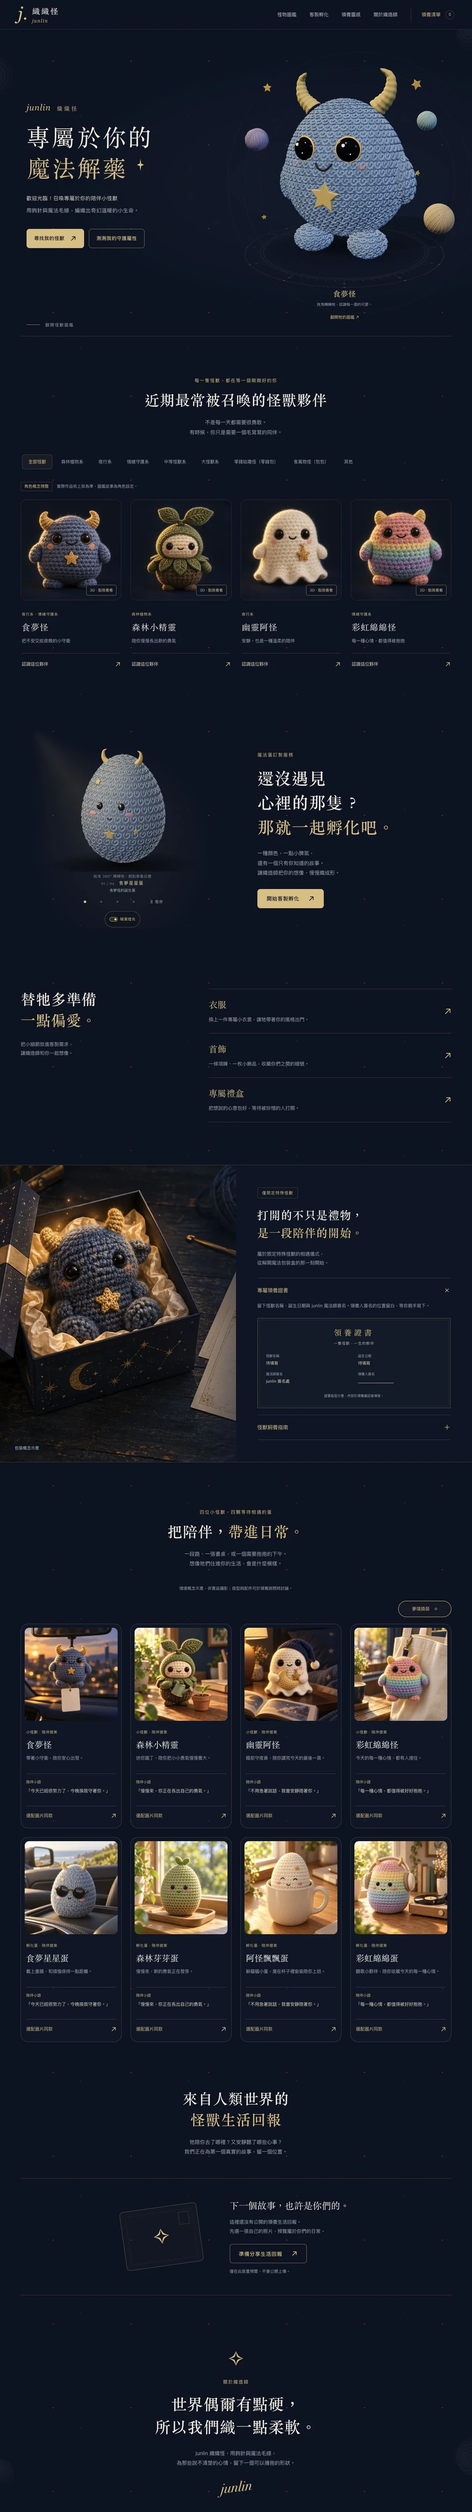
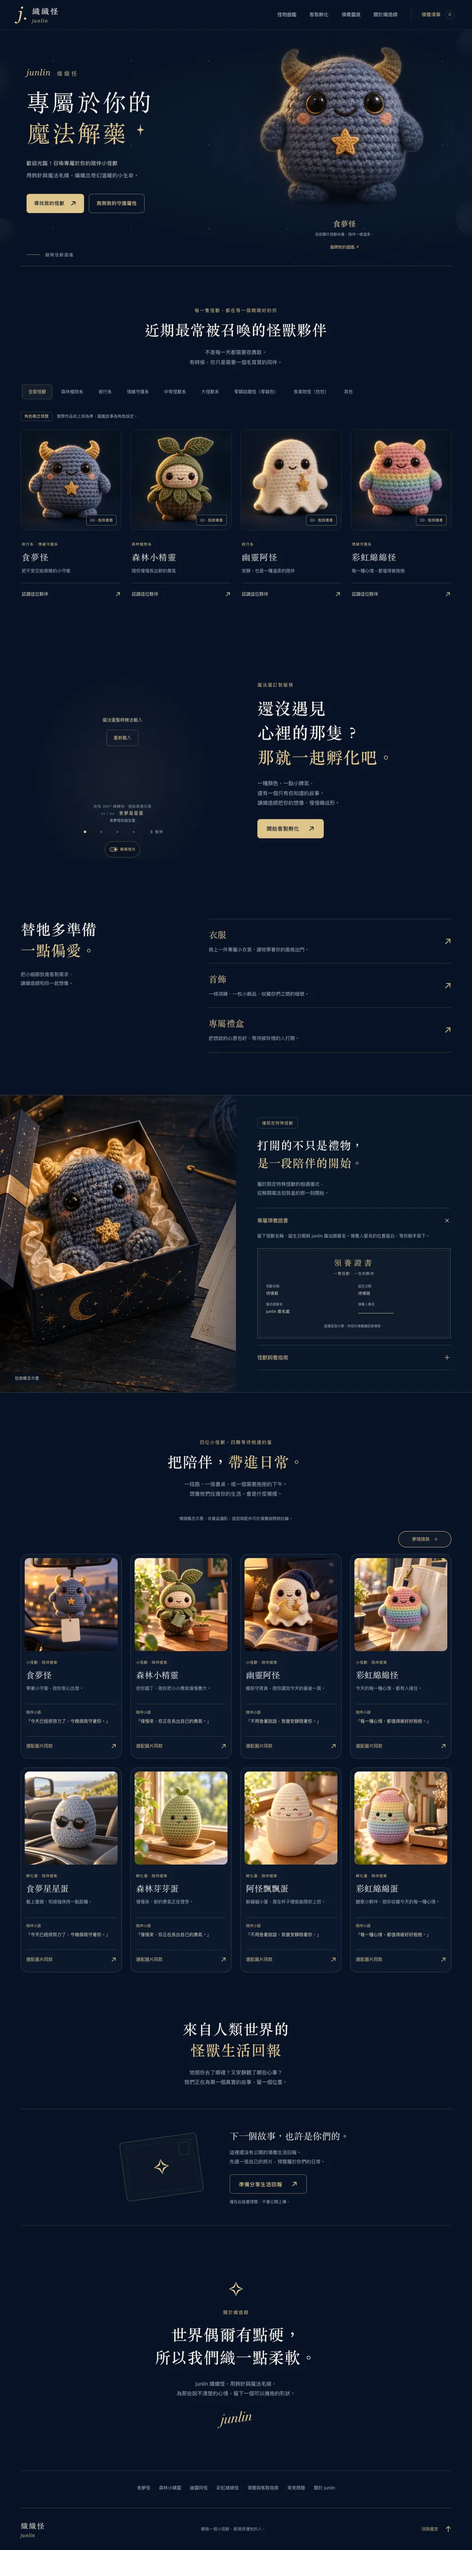
Refresh work screenshots for sites updated on GitHub since their last capture
Recapture home and full-page screens for Shanyu, Jianan Temple, Salf
TW, junlin, Hey World and test shirt, and the opening screens for Go
Shoot, Cheng Xin Leasing and Vertex, including the large Go Shoot and
Cheng Xin case images. Update each project's size and capture date,
switch the opening-screen files to dated names and drop the old ones,
and date the Shanyu case page capture from its own record.

diff --git a/work/shanyu/index.html b/work/shanyu/index.html
@@ -19,7 +19,7 @@
   <header class="site-header"><a href="/" class="brand" aria-label="Hey Cheng 首頁"><img src="/assets/hey-cheng-logo.png" alt="Hey Cheng" width="2061" height="763"></a><nav aria-label="主要導覽"><a href="/#grid">作品</a><a href="/#services">服務</a><a href="/#pricing">方案</a><a class="contact-link" href="/#contact">聯絡 <span aria-hidden="true">↗</span></a></nav><div class="page-view-mode" data-view-mode-host></div></header>
   <main id="main"><nav class="breadcrumb" aria-label="麵包屑"><a href="/">首頁</a><span aria-hidden="true">/</span><span aria-current="page">山遇民宿</span></nav>
   <header class="hero"><p class="eyebrow">HOSPITALITY / BRAND WEBSITE</p><h1>山遇民宿</h1><p class="hero-lead">讓住宿的想像，從空間開始。</p><p class="intro">山遇民宿的網站，以庭園、房型與住宿生活作為敘事主角。作品把品牌故事、房間照片、公共空間及聯絡資訊放進同一段瀏覽動線，讓訪客先感受環境，再了解適合自己的住宿方式。</p></header>
-  <dl class="project-facts"><div><dt>網站類型</dt><dd>住宿空間</dd></div><div><dt>呈現重點</dt><dd>品牌網站 · 房型內容 · 空間導覽</dd></div><div><dt>公開狀態</dt><dd><a href="https://shanyu2015.com/" target="_blank" rel="noopener noreferrer">已上線 · 前往原站 <span aria-hidden="true">↗</span><span class="sr-only">（新分頁）</span></a></dd></div></dl><figure class="hero-image"><img src="/assets/case-shanyu.webp" alt="山遇民宿網站的庭園、建築與品牌主視覺" width="1440" height="900" fetchpriority="high"><figcaption>山遇民宿 · 既有公開作品畫面</figcaption></figure><section class="section context"><p class="eyebrow">THE CONTEXT</p><h2>這個網站，要讓人看懂什麼？</h2><p>住宿網站需要同時呈現感受與資訊。照片讓人理解環境，房型、空間說明和聯絡入口則幫助旅客把想像轉為具體問題。此案例可以觀察：如何讓不同內容各有位置，又保持一致的閱讀節奏。</p></section><div class="story section"><section class="story-row"><p class="number" aria-hidden="true">01</p><div><h2>空間先行，建立對場域的印象</h2><p>頁面以自然色系與留白呼應住宿空間，將建築、庭園與品牌識別放在視覺主軸。空間導覽提供整體配置的參考，房型實景照片則承接各個空間的細節，兩種資訊在網站中各自發揮作用。</p></div></section><section class="story-row"><p class="number" aria-hidden="true">02</p><div><h2>房型逐一說明，讓照片可以比較</h2><p>房間段落分別安排名稱、照片與介紹，讓訪客逐步看懂不同住宿空間。除了房間本身，早餐、公共空間與庭園也被放入內容，補足單靠房型列表難以傳達的生活情境。</p></div></section><section class="story-row"><p class="number" aria-hidden="true">03</p><div><h2>從品牌故事，走到實際詢問</h2><p>品牌故事、住宿須知、交通與聯絡方式按內容分段。旅客可以先閱讀與欣賞，再找到詢房入口；網站沒有把所有細節擠進同一張照片，而是讓畫面與說明在捲動過程中接續。</p></div></section></div><section class="section"><div class="section-head"><p class="eyebrow">THE COMPLETE PAGE</p><h2>從頁首到頁尾，看完整作品</h2><p>以下為 2026 年 9 月 18 日擷取的全頁畫面，可在圖片區上下捲動。原站的內容與動態效果，以實際網站為準。</p></div><figure class="full-capture"><div class="capture-scroll" tabindex="0" role="region" aria-label="山遇民宿完整網站截圖，可上下捲動"><img src="/assets/work-shanyu-overview.webp" alt="山遇民宿網站從頁首、內容區到頁尾的完整截圖" width="960" height="8790" loading="lazy" decoding="async"></div><figcaption>截圖保留擷取當時的圖片、活動與資訊。<a href="/assets/work-shanyu-full.webp" target="_blank" rel="noopener noreferrer">開啟原尺寸截圖<span class="sr-only">（新分頁）</span> ↗</a></figcaption></figure></section><section class="preparation section"><div><p class="eyebrow">WHAT TO TAKE AWAY</p><h2>規劃相似網站時，<br>可以從這裡開始。</h2></div><ul><li>適合用於討論：住宿、場域或有實體空間的品牌網站。</li><li>可參考的內容安排：環境、房型、故事、須知與聯絡。</li><li>空間示意與實景照片需清楚區分，避免讓訪客誤認。</li></ul></section><section class="section"><div class="section-head"><p class="eyebrow">RELATED SERVICES</p><h2>對應的服務方向</h2><p>先從需要呈現的內容與操作情境出發，再討論適合的規模。</p></div><div class="service-links"><a href="/services/brand-websites/"><span>品牌形象網站</span><span aria-hidden="true">↗</span></a><a href="/services/brand-content/"><span>品牌攝影與文案</span><span aria-hidden="true">↗</span></a></div></section><section class="section"><div class="section-head"><p class="eyebrow">KEEP EXPLORING</p><h2>再看看不同的生意</h2></div><div class="related-grid"><a class="work-card" href="/work/yongzhen-tofu/"><img src="/assets/case-tofu.webp" alt="永貞豆腐店網站以大字標題與餐點照片呈現餐飲品牌" width="1440" height="900" loading="lazy" decoding="async"><p class="eyebrow">餐飲品牌</p><h3>永貞豆腐店 <span aria-hidden="true">↗</span></h3><p>餐點內容 · 品牌故事 · 店家資訊</p></a><a class="work-card" href="/work/goshoot/"><img src="/assets/case-goshoot.webp" alt="Go Shoot 網站的橘黑色品牌視覺與店面資訊" width="1440" height="900" loading="lazy" decoding="async"><p class="eyebrow">零售品牌</p><h3>Go Shoot <span aria-hidden="true">↗</span></h3><p>品牌識別 · 活動情報 · 服務入口</p></a></div></section>
+  <dl class="project-facts"><div><dt>網站類型</dt><dd>住宿空間</dd></div><div><dt>呈現重點</dt><dd>品牌網站 · 房型內容 · 空間導覽</dd></div><div><dt>公開狀態</dt><dd><a href="https://shanyu2015.com/" target="_blank" rel="noopener noreferrer">已上線 · 前往原站 <span aria-hidden="true">↗</span><span class="sr-only">（新分頁）</span></a></dd></div></dl><figure class="hero-image"><img src="/assets/case-shanyu.webp" alt="山遇民宿網站的庭園、建築與品牌主視覺" width="1440" height="900" fetchpriority="high"><figcaption>山遇民宿 · 既有公開作品畫面</figcaption></figure><section class="section context"><p class="eyebrow">THE CONTEXT</p><h2>這個網站，要讓人看懂什麼？</h2><p>住宿網站需要同時呈現感受與資訊。照片讓人理解環境，房型、空間說明和聯絡入口則幫助旅客把想像轉為具體問題。此案例可以觀察：如何讓不同內容各有位置，又保持一致的閱讀節奏。</p></section><div class="story section"><section class="story-row"><p class="number" aria-hidden="true">01</p><div><h2>空間先行，建立對場域的印象</h2><p>頁面以自然色系與留白呼應住宿空間，將建築、庭園與品牌識別放在視覺主軸。空間導覽提供整體配置的參考，房型實景照片則承接各個空間的細節，兩種資訊在網站中各自發揮作用。</p></div></section><section class="story-row"><p class="number" aria-hidden="true">02</p><div><h2>房型逐一說明，讓照片可以比較</h2><p>房間段落分別安排名稱、照片與介紹，讓訪客逐步看懂不同住宿空間。除了房間本身，早餐、公共空間與庭園也被放入內容，補足單靠房型列表難以傳達的生活情境。</p></div></section><section class="story-row"><p class="number" aria-hidden="true">03</p><div><h2>從品牌故事，走到實際詢問</h2><p>品牌故事、住宿須知、交通與聯絡方式按內容分段。旅客可以先閱讀與欣賞，再找到詢房入口；網站沒有把所有細節擠進同一張照片，而是讓畫面與說明在捲動過程中接續。</p></div></section></div><section class="section"><div class="section-head"><p class="eyebrow">THE COMPLETE PAGE</p><h2>從頁首到頁尾，看完整作品</h2><p>以下為 2026 年 9 月 30 日擷取的全頁畫面，可在圖片區上下捲動。原站的內容與動態效果，以實際網站為準。</p></div><figure class="full-capture"><div class="capture-scroll" tabindex="0" role="region" aria-label="山遇民宿完整網站截圖，可上下捲動"><img src="/assets/work-shanyu-overview.webp" alt="山遇民宿網站從頁首、內容區到頁尾的完整截圖" width="960" height="10063" loading="lazy" decoding="async"></div><figcaption>截圖保留擷取當時的圖片、活動與資訊。<a href="/assets/work-shanyu-full.webp" target="_blank" rel="noopener noreferrer">開啟原尺寸截圖<span class="sr-only">（新分頁）</span> ↗</a></figcaption></figure></section><section class="preparation section"><div><p class="eyebrow">WHAT TO TAKE AWAY</p><h2>規劃相似網站時，<br>可以從這裡開始。</h2></div><ul><li>適合用於討論：住宿、場域或有實體空間的品牌網站。</li><li>可參考的內容安排：環境、房型、故事、須知與聯絡。</li><li>空間示意與實景照片需清楚區分，避免讓訪客誤認。</li></ul></section><section class="section"><div class="section-head"><p class="eyebrow">RELATED SERVICES</p><h2>對應的服務方向</h2><p>先從需要呈現的內容與操作情境出發，再討論適合的規模。</p></div><div class="service-links"><a href="/services/brand-websites/"><span>品牌形象網站</span><span aria-hidden="true">↗</span></a><a href="/services/brand-content/"><span>品牌攝影與文案</span><span aria-hidden="true">↗</span></a></div></section><section class="section"><div class="section-head"><p class="eyebrow">KEEP EXPLORING</p><h2>再看看不同的生意</h2></div><div class="related-grid"><a class="work-card" href="/work/yongzhen-tofu/"><img src="/assets/case-tofu.webp" alt="永貞豆腐店網站以大字標題與餐點照片呈現餐飲品牌" width="1440" height="900" loading="lazy" decoding="async"><p class="eyebrow">餐飲品牌</p><h3>永貞豆腐店 <span aria-hidden="true">↗</span></h3><p>餐點內容 · 品牌故事 · 店家資訊</p></a><a class="work-card" href="/work/goshoot/"><img src="/assets/case-goshoot.webp" alt="Go Shoot 網站的橘黑色品牌視覺與店面資訊" width="1440" height="900" loading="lazy" decoding="async"><p class="eyebrow">零售品牌</p><h3>Go Shoot <span aria-hidden="true">↗</span></h3><p>品牌識別 · 活動情報 · 服務入口</p></a></div></section>
   <section class="contact section"><p class="eyebrow">LET'S TALK</p><h2>你的下一個網站，<br>從一段對話開始。</h2><a class="button" href="/#contact">和 Hey Cheng 聊聊 <span aria-hidden="true">↗</span></a></section>
   </main>
   <footer class="site-footer"><div><a class="brand" href="/" aria-label="回到 Hey Cheng 首頁"><img src="/assets/hey-cheng-logo.png" alt="Hey Cheng" width="2061" height="763" loading="lazy"></a><p>旋賞數位有限公司 · 新北中和</p><a href="tel:+886222262678">02-2226-2678</a></div><div><p class="eyebrow">服務</p><a href="/services/brand-websites/">品牌形象網站</a><a href="/services/brand-content/">品牌攝影與文案</a><a href="/services/ai-custom-systems/">AI 與客製系統</a></div><div><p class="eyebrow">完整案例</p><a href="/work/shanyu/">山遇民宿</a><a href="/work/yongzhen-tofu/">永貞豆腐店</a><a href="/work/goshoot/">Go Shoot</a></div><div><a href="/#about">關於我們</a><a href="/#pricing">方案與價格</a><a href="/faq/">合作常見問題</a><a href="/#contact">聯絡方式</a><a href="/portal/">文件工作台</a><a href="/privacy/">隱私說明</a><a href="/terms/">使用說明</a></div></footer>

diff --git a/index.html b/index.html
@@ -551,21 +551,21 @@ const body = document.body;
 const reducedMotion = matchMedia('(prefers-reduced-motion: reduce)');
 const finePointer = matchMedia('(hover: hover) and (pointer: fine)');
 const projects = [
-  {"id":"salf","name":"Salf TW","url":"https://salf-tw.hoho0219.chatgpt.site/","status":"公開概念展示","kind":"產品概念 / 雙語企業網站","note":"以雙語首頁、產品介紹與方案比較呈現雲端防護品牌概念。此為網站介面展示，尚未啟用資安、帳號或付款服務。","previewLabel":"產品概念頁面截圖","width":1280,"height":3050,"capturedAt":"2026.09.25"},
-  {"id":"heyworld","name":"Hey World","url":"https://howard118008y-commits.github.io/Hey-World/","kind":"沉浸式互動 / 行星探索與 3D 場景","note":"透過八大行星切換、沉浸式環境與雙語資訊，讓訪客在不同星球場景之間探索。","previewLabel":"行星探索介面截圖","width":1280,"height":720,"capturedAt":"2026.09.25"},
+  {"id":"salf","name":"Salf TW","url":"https://salf-tw.hoho0219.chatgpt.site/","status":"公開概念展示","kind":"產品概念 / 雙語企業網站","note":"以雙語首頁、產品介紹與方案比較呈現雲端防護品牌概念。此為網站介面展示，尚未啟用資安、帳號或付款服務。","previewLabel":"產品概念頁面截圖","width":1280,"height":1365,"capturedAt":"2026.09.30"},
+  {"id":"heyworld","name":"Hey World","url":"https://howard118008y-commits.github.io/Hey-World/","kind":"沉浸式互動 / 行星探索與 3D 場景","note":"透過八大行星切換、沉浸式環境與雙語資訊，讓訪客在不同星球場景之間探索。","previewLabel":"行星探索介面截圖","width":1280,"height":720,"capturedAt":"2026.09.30"},
   {"id":"toonhub","name":"台灣卡牌（台卡）","url":"https://howard118008y-commits.github.io/toonhub-island-duel/","status":"已上線","kind":"角色設計 / 臺灣地域自走棋","note":"24 位臺灣地域角色、六種羈絆與 5 人隊伍編排，挑戰 10 輪主戰與支線遭遇。免費、免註冊的單機遊戲，進度保存在目前瀏覽器。","previewLabel":"新版官網首屏截圖","imageType":"viewport","width":1280,"height":720,"capturedAt":"2026.09.28","thumb":"assets/work-toonhub-20260928.jpg","overview":"assets/work-toonhub-20260928.jpg","full":"assets/work-toonhub-20260928.jpg"},
-  {"id":"fashion","name":"test shirt","url":"https://test-shirt.hoho0219.chatgpt.site","kind":"服飾品牌 / 沉浸式穿搭展示","note":"以首頁造型、滾動展場與穿搭取景呈現服飾品牌。展示版尚未開放結帳，穿搭圖為原作品內標示的 AI 合成示意。","previewLabel":"穿搭互動介面截圖","width":1280,"height":720,"capturedAt":"2026.09.25"},
-  {"id":"zhizhiguai","name":"junlin 織織怪","url":"https://zhizhiguai-production.up.railway.app/","kind":"手作品牌 / 3D 角色與客製體驗","note":"結合 3D 怪獸、角色圖鑑與客製孵化，加入八組日常陪伴情境、夢境換裝與配件選擇，呈現手作品牌的想像。","width":1280,"height":6804,"capturedAt":"2026.09.25"},
+  {"id":"fashion","name":"test shirt","url":"https://test-shirt.hoho0219.chatgpt.site","kind":"服飾品牌 / 沉浸式穿搭展示","note":"以首頁造型、滾動展場與穿搭取景呈現服飾品牌。展示版尚未開放結帳，穿搭圖為原作品內標示的 AI 合成示意。","previewLabel":"穿搭互動介面截圖","width":1280,"height":720,"capturedAt":"2026.09.30"},
+  {"id":"zhizhiguai","name":"junlin 織織怪","url":"https://zhizhiguai-production.up.railway.app/","kind":"手作品牌 / 3D 角色與客製體驗","note":"結合 3D 怪獸、角色圖鑑與客製孵化，加入八組日常陪伴情境、夢境換裝與配件選擇，呈現手作品牌的想像。","width":1280,"height":6905,"capturedAt":"2026.09.30"},
   {"id":"jevtalk","name":"Jev Talk 好好說話","url":"https://jev-talk.vercel.app/","status":"公開介紹頁","kind":"AI 溝通工具 / 對話整理與回覆草稿","note":"整理對話情境、可能意圖與不同語氣的回覆草稿。此處展示公開介紹頁；私人工作區需要存取密碼，不展示對話或使用者資料。","previewLabel":"公開介紹頁全頁截圖","width":1280,"height":1112,"capturedAt":"2026.09.28","thumb":"assets/work-jevtalk-20260928.png","overview":"assets/work-jevtalk-20260928.png","full":"assets/work-jevtalk-20260928.png"},
   {"id":"btcucc","name":"BTCUCC 費率雷達","url":"https://btcucc.onrender.com/","kind":"數據工具 / 市場資料與費率比較","note":"整合多交易所資金費率、歷史資料與篩選介面，讓複雜市場資訊清楚呈現。畫面數值為擷取當下的市場資料。","width":1280,"height":1842,"capturedAt":"2026.09.25"},
   {"id":"kline539","name":"539 K 線分析","url":null,"status":"作品預覽","kind":"互動圖表 / 號碼統計與視覺化","note":"把號碼出現間隔與熱度轉成可篩選的 K 線圖表。此畫面使用專案內建樣本資料，展示統計介面。","previewLabel":"樣本資料介面截圖","width":1280,"height":720,"capturedAt":"2026.09.25"},
-  {id:'shanyu',name:'山遇民宿',url:'https://shanyu2015.com',kind:'住宿空間 / 房型與立體導覽',note:'從庭園、房型到立體導覽，把住宿空間的特色整理成直覺的瀏覽體驗。點開完整頁面，看看空間如何被介紹。',width:1440,height:13186},
-  {"id":"goshoot","name":"Go Shoot","url":"https://goshoot.com.tw","status":"已上線","kind":"零售品牌 / 沉浸式門市導覽","note":"用可捲動的立體門市開場，帶訪客探索店門口、娃娃機牆與活動區，再連到門市資訊。此處為新版開場首屏，完整互動請前往原站。","previewLabel":"沉浸式開場首屏截圖","imageType":"viewport","width":1280,"height":720,"capturedAt":"2026.09.28","thumb":"assets/work-goshoot-20260928.jpg","overview":"assets/work-goshoot-20260928.jpg","full":"assets/work-goshoot-20260928.jpg"},
+  {id:'shanyu',name:'山遇民宿',url:'https://shanyu2015.com',kind:'住宿空間 / 房型與立體導覽',note:'從庭園、房型到立體導覽，把住宿空間的特色整理成直覺的瀏覽體驗。點開完整頁面，看看空間如何被介紹。',width:1440,height:15095,capturedAt:'2026.09.30'},
+  {"id":"goshoot","name":"Go Shoot","url":"https://goshoot.com.tw","status":"已上線","kind":"零售品牌 / 沉浸式門市導覽","note":"用可捲動的立體門市開場，帶訪客探索店門口、娃娃機牆與活動區，再連到門市資訊。此處為新版開場首屏，完整互動請前往原站。","previewLabel":"沉浸式開場首屏截圖","imageType":"viewport","width":1280,"height":720,"capturedAt":"2026.09.30","thumb":"assets/work-goshoot-20260930.jpg","overview":"assets/work-goshoot-20260930.jpg","full":"assets/work-goshoot-20260930.jpg"},
   {id:'tofu',name:'永貞豆腐店',url:'https://yongzhen-tofu.com.tw',kind:'餐飲品牌 / 菜單與品牌故事',note:'把餐點、品牌故事與加盟資訊放進同一段瀏覽動線，用真實照片與清楚內容，說明店家的特色。',width:1440,height:7754},
-  {id:'jianan',name:'台北建安宮',url:'https://taipeijianantemple.com.tw',kind:'文化信仰 / 活動與線上登記',note:'整理廟宇介紹、活動資訊與線上登記入口，讓不同年齡的訪客都能找到需要的資訊。此預覽為平板響應式版本。',width:900,height:3914},
-  {"id":"cx468","name":"鋮馨租賃","url":"https://cx468.com.tw","status":"已上線","kind":"企業服務 / 諮詢與 AI 助理","note":"以諮詢需求、電話與 LINE 聯絡入口安排清楚動線，結合 AI 助理與試算工具，協助訪客整理問題。此處展示新版公開首頁首屏。","previewLabel":"新版官網首屏截圖","imageType":"viewport","width":1280,"height":720,"capturedAt":"2026.09.28","thumb":"assets/work-cx468-20260928.jpg","overview":"assets/work-cx468-20260928.jpg","full":"assets/work-cx468-20260928.jpg"},
+  {id:'jianan',name:'台北建安宮',url:'https://taipeijianantemple.com.tw',kind:'文化信仰 / 活動與線上登記',note:'整理廟宇介紹、活動資訊與線上登記入口，讓不同年齡的訪客都能找到需要的資訊。此預覽為平板響應式版本。',width:900,height:2460,capturedAt:'2026.09.30'},
+  {"id":"cx468","name":"鋮馨租賃","url":"https://cx468.com.tw","status":"已上線","kind":"企業服務 / 諮詢與 AI 助理","note":"以諮詢需求、電話與 LINE 聯絡入口安排清楚動線，結合 AI 助理與試算工具，協助訪客整理問題。此處展示新版公開首頁首屏。","previewLabel":"新版官網首屏截圖","imageType":"viewport","width":1280,"height":720,"capturedAt":"2026.09.30","thumb":"assets/work-cx468-20260930.jpg","overview":"assets/work-cx468-20260930.jpg","full":"assets/work-cx468-20260930.jpg"},
   {id:'ichiban',name:'線上一番賞平台',url:'https://goshoot-ichiban.vercel.app',kind:'客製系統 / 商品與會員流程',note:'整合會員、點數、金流、庫存與亂數驗證，依照實際營運流程安排操作介面。功能與體驗一起設計。',width:1440,height:2679},
-  {"id":"vertex","name":"維拓 Vertex","url":"https://vertex.hoho0219.chatgpt.site/","kind":"開店服務 / 電商版型與系統整合","note":"以電商版型展示、開店方案與系統整合說明，呈現品牌開店服務的公開入口。此處展示官網首屏紀錄，最新內容以原站為準。","previewLabel":"官網首屏紀錄","imageType":"viewport","width":1440,"height":900,"capturedAt":null,"thumb":"assets/work-vertex-home.jpg","overview":"assets/work-vertex-home.jpg","full":"assets/work-vertex-home.jpg"},
+  {"id":"vertex","name":"維拓 Vertex","url":"https://vertex.hoho0219.chatgpt.site/","kind":"開店服務 / 電商版型與系統整合","note":"以電商版型展示、開店方案與系統整合說明，呈現品牌開店服務的公開入口。此處展示官網首屏紀錄，最新內容以原站為準。","previewLabel":"官網首屏紀錄","imageType":"viewport","width":1440,"height":900,"capturedAt":"2026.09.30","thumb":"assets/work-vertex-20260930.jpg","overview":"assets/work-vertex-20260930.jpg","full":"assets/work-vertex-20260930.jpg"},
   {"id":"postpilot","name":"PostPilot","url":"https://publishing-console-production.up.railway.app/","status":"公開登入入口","kind":"內容發布工具","note":"提供內容發布工具的公開登入入口。此處僅展示官方品牌圖，不展示登入後功能或任何使用者資料。","previewLabel":"官方品牌圖，非系統介面","imageType":"brand","linkLabel":"開啟公開登入頁","width":192,"height":192,"capturedAt":null,"thumb":"assets/work-postpilot-brand.png","overview":"assets/work-postpilot-brand.png","full":"assets/work-postpilot-brand.png"},
   {"id":"chengxin-desk","name":"鋮馨工作台","url":"https://chengxin-desk-howard.hoho0219.chatgpt.site/login","status":"公開登入入口","kind":"企業工作台","note":"鋮馨工作台的公開登入入口。此處僅展示官方品牌圖，不展示內部介面、客戶資料或未授權內容。","previewLabel":"官方品牌圖，非系統介面","imageType":"brand","linkLabel":"開啟公開登入頁","width":425,"height":223,"capturedAt":null,"thumb":"assets/work-chengxin-desk-brand.png","overview":"assets/work-chengxin-desk-brand.png","full":"assets/work-chengxin-desk-brand.png"}
 ].map((project,index)=>({capturedAt:'2026.09.18',status:project.url?'已上線':'作品預覽',thumb:`assets/case-${project.id}.webp`,overview:`assets/work-${project.id}-overview.webp`,full:`assets/work-${project.id}-full.webp`,...project,index}));

diff --git a/README.md b/README.md
@@ -43,6 +43,7 @@ API 與結果欄位依據：[axe-core 官方文件](https://github.com/dequelabs
 - 2026-09-27 作品擴充：目前展廳共 17 案。新增維拓 Vertex 官網首屏紀錄，以及 PostPilot、鋮馨工作台的公開登入入口；兩登入工具僅展示官方品牌圖，不展示內部介面或客戶資料。Salf TW 改連公開概念頁，保留服務未啟用說明；Card & TW ＆ Game 更新為自走棋說明，既有圖片標示早期卡牌介面。
 - 2026-09-25 作品內容更新：新增 Salf TW 雙語產品概念頁面預覽；更新 Hey World 行星探索、Card & TW ＆ Game 地域角色卡牌、junlin 織織怪陪伴情境與客製介面的截圖及介紹。Salf TW 只展示網站介面，尚未啟用資安、帳號或付款服務。
 - 2026-09-28 重新核對 29 個 GitHub 儲存庫：展廳 17 件獨立作品均已有各自專案；排除舊版重複、工具與知識庫。更新台灣卡牌（台卡）、Go Shoot 與鋮馨新版公開首頁圖；Jev Talk 改連正式公開介紹頁，私人工作區仍需要密碼。
+- 2026-09-30 依 GitHub 推送紀錄，重新擷取上次截圖後有更新的 9 件作品：山遇民宿、台北建安宮、Salf TW、junlin 織織怪、Hey World、test shirt、Go Shoot、鋮馨租賃、維拓 Vertex；其餘作品截圖仍為最新。山遇案例頁的全頁截圖日期同步更新。
 - 尚無公開網址的 539 K 線分析仍使用專案內建樣本預覽，不提供虛構外連或私人儲存庫連結。
 - 2026-09-28 六支品牌影片改用 1080p H.264/AAC 網頁版本；播放索引移到檔案前端，保留按需載入與手動播放。原始影片保留在使用者原資料夾。
 - 圖片沿用既有公開官網素材，轉換為 WebP 降低傳輸量。出處見 `assets/CREDITS.md`。

diff --git a/assets/CREDITS.md b/assets/CREDITS.md
@@ -46,7 +46,8 @@
 
 - `work-jevtalk-20260928.png`：https://jev-talk.vercel.app/ 公開介紹頁全頁截圖（1280×1112），未進入私人工作區。
 - `work-toonhub-20260928.jpg`：https://howard118008y-commits.github.io/toonhub-island-duel/ 新版台灣卡牌首屏（1280×720）。
-- `work-goshoot-20260928.jpg`：https://goshoot.com.tw/ 沉浸式開場首屏（1280×720）。
-- `work-cx468-20260928.jpg`：https://cx468.com.tw/ 新版公開首頁首屏（1280×720）。
+- `work-goshoot-20260930.jpg`：https://goshoot.com.tw/ 沉浸式開場首屏（1280×720，2026-09-30 重新擷取）。
+- `work-cx468-20260930.jpg`：https://cx468.com.tw/ 新版公開首頁首屏（1280×720，2026-09-30 重新擷取）。
 - 本輪圖片均於 2026-09-28 從瀏覽器實際擷取。首屏素材明示為首屏，原站完整互動以外連提供；未登入工具、未產生對話或客戶資料。
 - `brand-films/*-web.mp4`：使用者核准的六支影片之網頁版本；1080p、原方向與 30fps、H.264/AAC，moov 索引移到 mdat 前，保留音訊。總大小 48,317,038 → 24,115,132 bytes（減少 50.09%），SSIM 0.9967–0.9989。轉碼只有 8–17 毫秒封裝時長差異，未裁切內容；原始檔保留在使用者原資料夾。
+- 2026-09-30 依 GitHub 更新紀錄重新擷取：山遇民宿、台北建安宮、Salf TW、junlin 織織怪、Hey World、test shirt 的首屏與全頁畫面；Go Shoot、鋮馨租賃首屏與 `case-goshoot.webp`、`case-cx468.webp`；維拓 Vertex 首屏改為 `work-vertex-20260930.jpg`。test shirt 內容隨捲動載入，全頁仍使用首屏。
